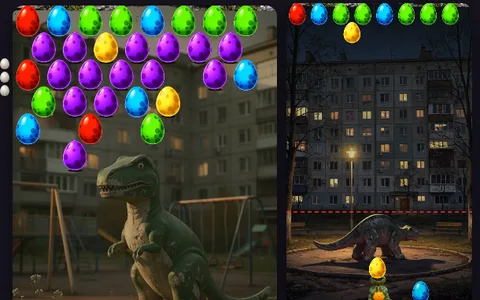
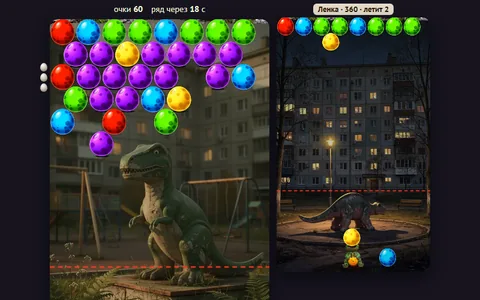
Яйца динозавров: яйца почти круглые, как в аркадах жанра (острый верх раздаётся, пропорция 0,93); превью карточки переснято

diff --git a/lavochka/src/games/eggs/paint.ts b/lavochka/src/games/eggs/paint.ts
@@ -41,7 +41,7 @@ export function drawEgg(g: CanvasRenderingContext2D, U: number, x: number, y: nu
   gr.addColorStop(1, d);
   g.fillStyle = gr;
   g.beginPath();
-  g.ellipse(px, py + U / 56, U * 0.4, U * 0.47, 0, 0, Math.PI * 2);
+  g.ellipse(px, py + U / 56, U * 0.44, U * 0.47, 0, 0, Math.PI * 2);
   g.fill();
   if (U >= 24) {
     g.fillStyle = 'rgba(40,20,0,0.35)';

diff --git a/lavochka/tools/arcade-art/build.py b/lavochka/tools/arcade-art/build.py
@@ -80,6 +80,24 @@ def square(im: Image.Image, size: int, pad: float = 0.04) -> Image.Image:
     return c
 
 
+def round_egg(im: Image.Image, aspect: float = 0.93, top: float = 0.22) -> Image.Image:
+    """Яйцо → почти шар, как в аркадных «яйцах динозавров»: острый верх раздаём вширь
+    (каждая строка растягивается тем сильнее, чем ближе к макушке), потом сжимаем до пропорции aspect (ш/в)."""
+    im = im.crop(im.getbbox())
+    w, h = im.size
+    W = round(w * (1 + top))
+    out = Image.new("RGBA", (W, h))
+    for y in range(h):
+        t = y / max(1, h - 1)  # 0 — макушка, 1 — низ
+        k = 1 + top * (1 - t) ** 1.6
+        row = im.crop((0, y, w, y + 1)).resize((max(1, round(w * k)), 1), Image.LANCZOS)
+        out.paste(row, ((W - row.width) // 2, y))
+    out = out.crop(out.getbbox())
+    w, h = out.size
+    nh = round(((w * h) / aspect) ** 0.5)
+    return out.resize((round(nh * aspect), nh), Image.LANCZOS)
+
+
 def round_cut(im: Image.Image, size: int = 160) -> Image.Image:
     """Люк: асфальт вокруг по цвету близок к фону — вместо хромакея круг с мягким краем по центру картинки."""
     im = im.convert("RGB")
@@ -177,7 +195,7 @@ def main(src: str):
     eggs = pieces(cut(op("eggs", "eggs1_2.png")), 3) + pieces(cut(op("eggs", "eggs2_2.png")), 3)
     order = [0, 1, 2, 3, 4, 5]  # зелёное, синее, красное, жёлтое, фиолетовое, оранжевое — как EGG в игре
     for i, j in enumerate(order):
-        save(square(eggs[j], 128), "eggs", f"egg{i}", 90)
+        save(square(round_egg(eggs[j]), 128), "eggs", f"egg{i}", 90)
     save(square(cut(op("eggs", "dino.png")), 256, 0.02), "eggs", "dino", 88)
     c = cut(op("eggs", "ceiling.png"))
     c = c.crop(c.getbbox())
